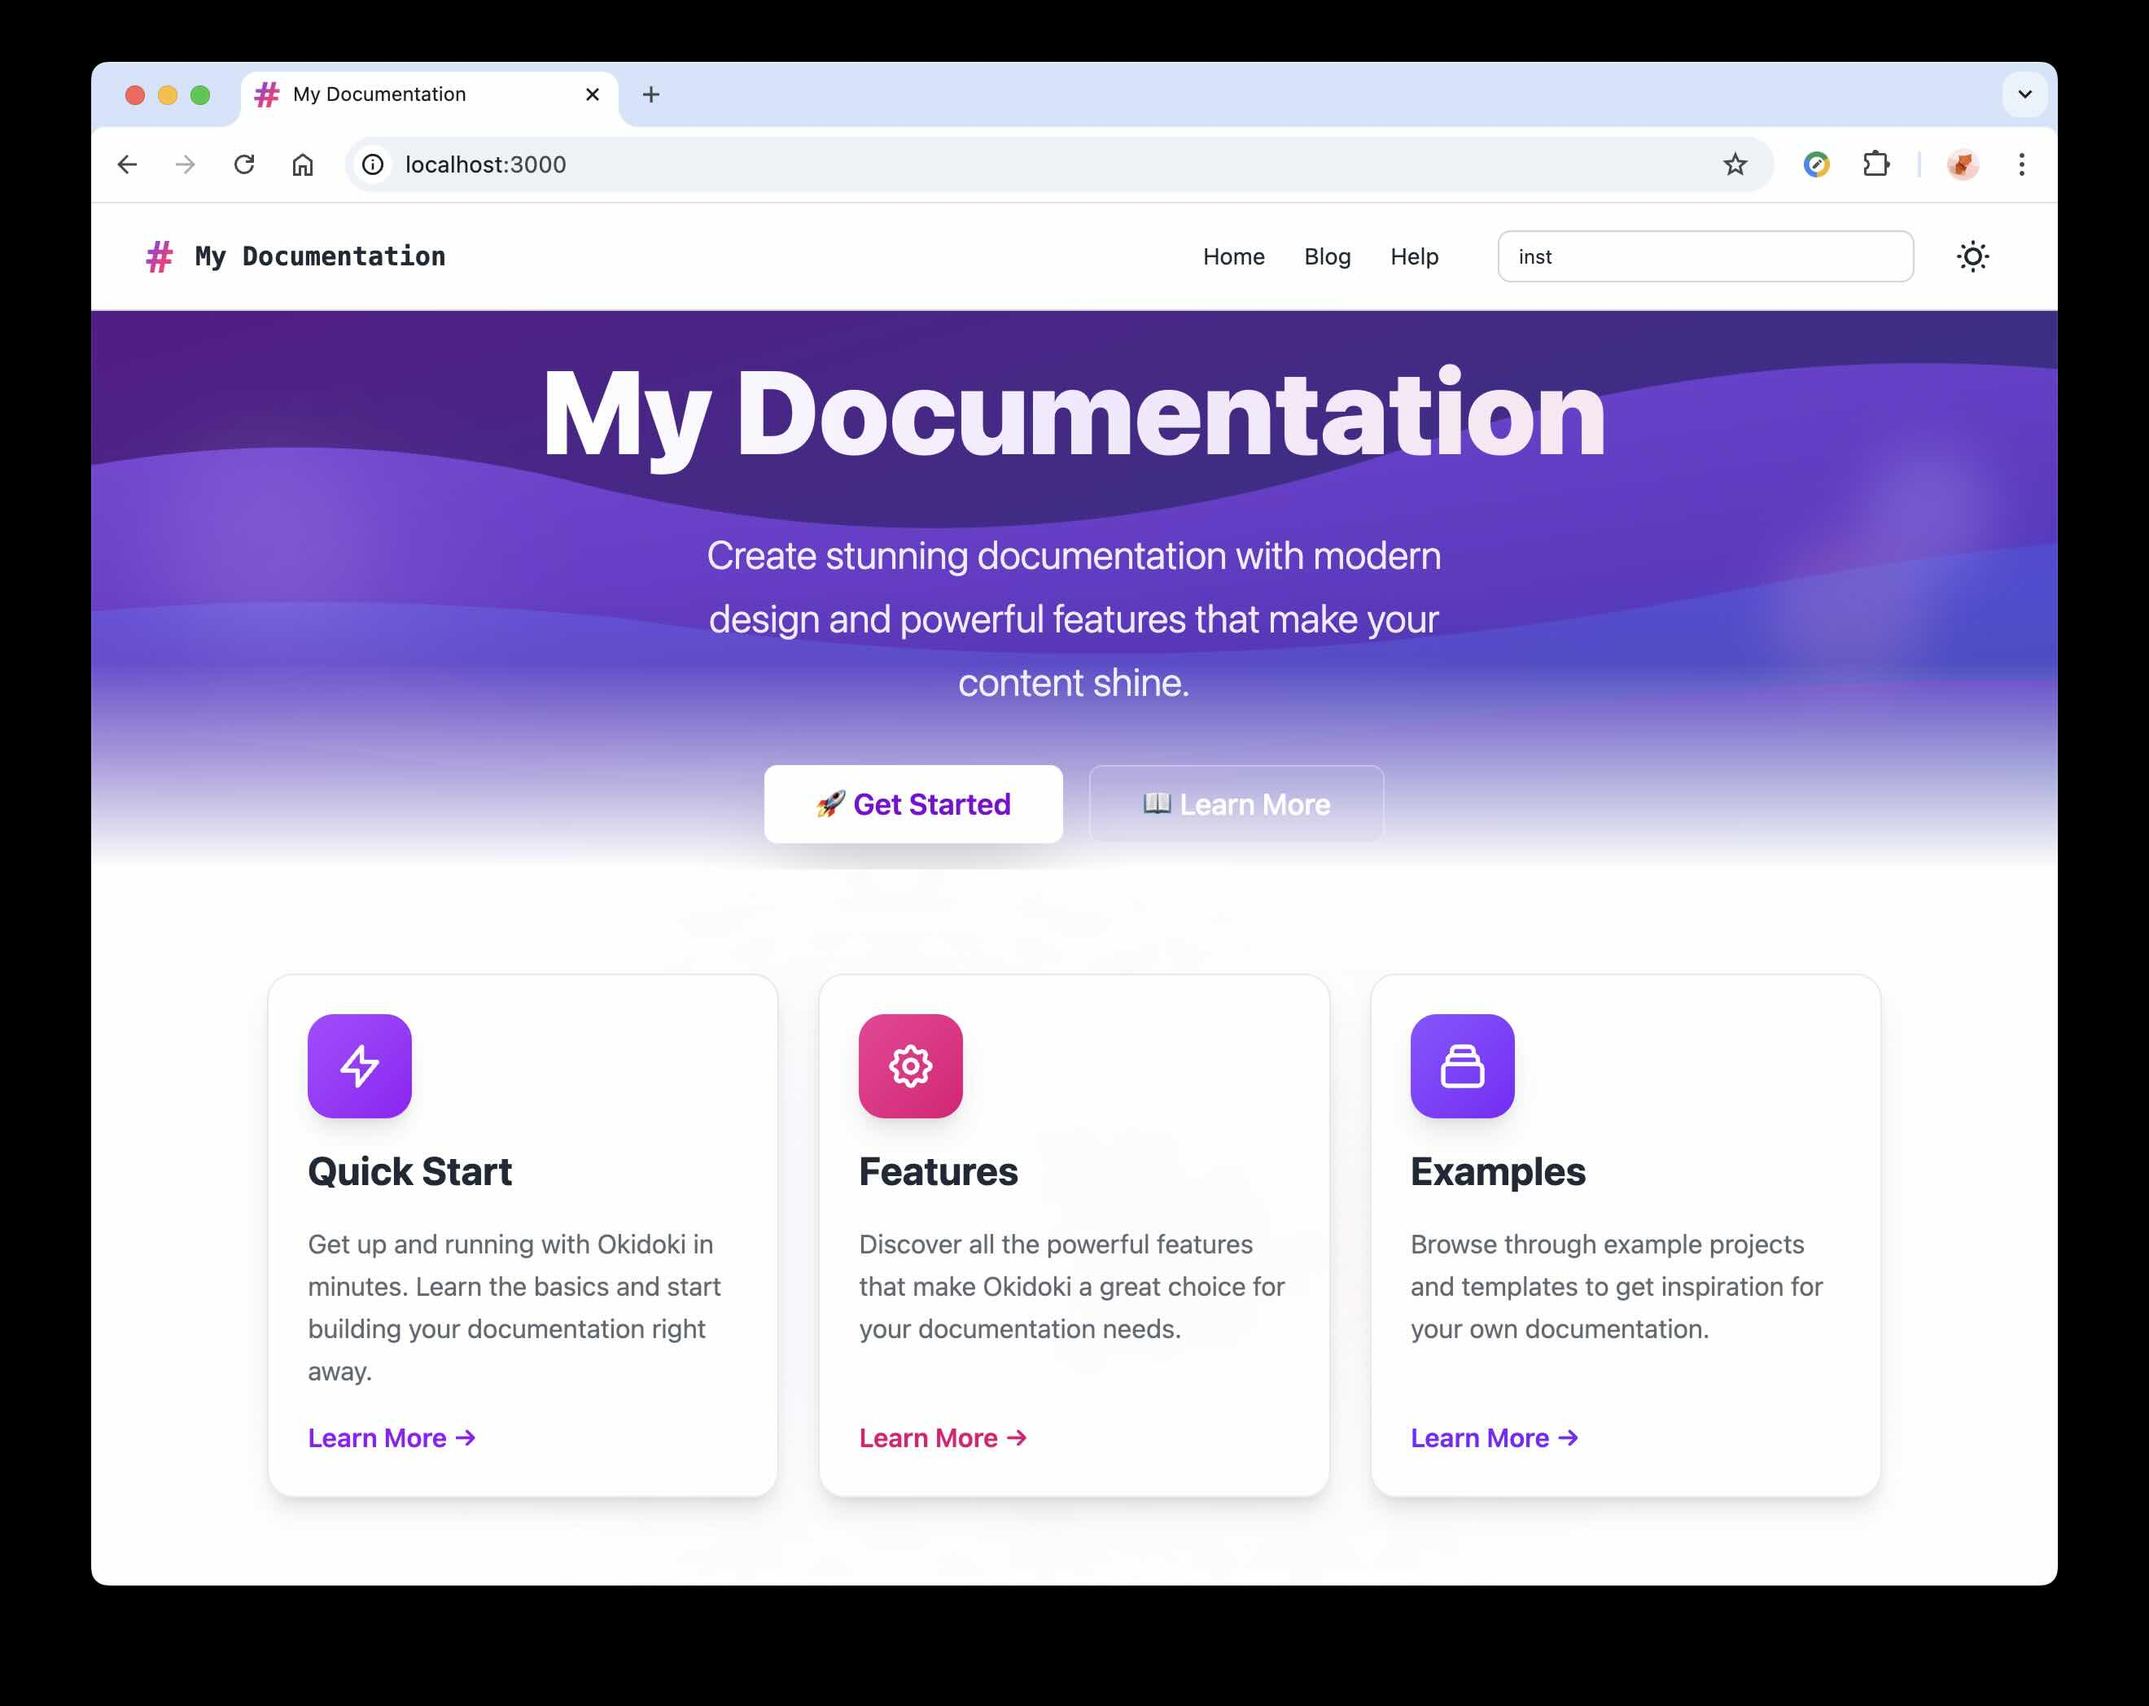
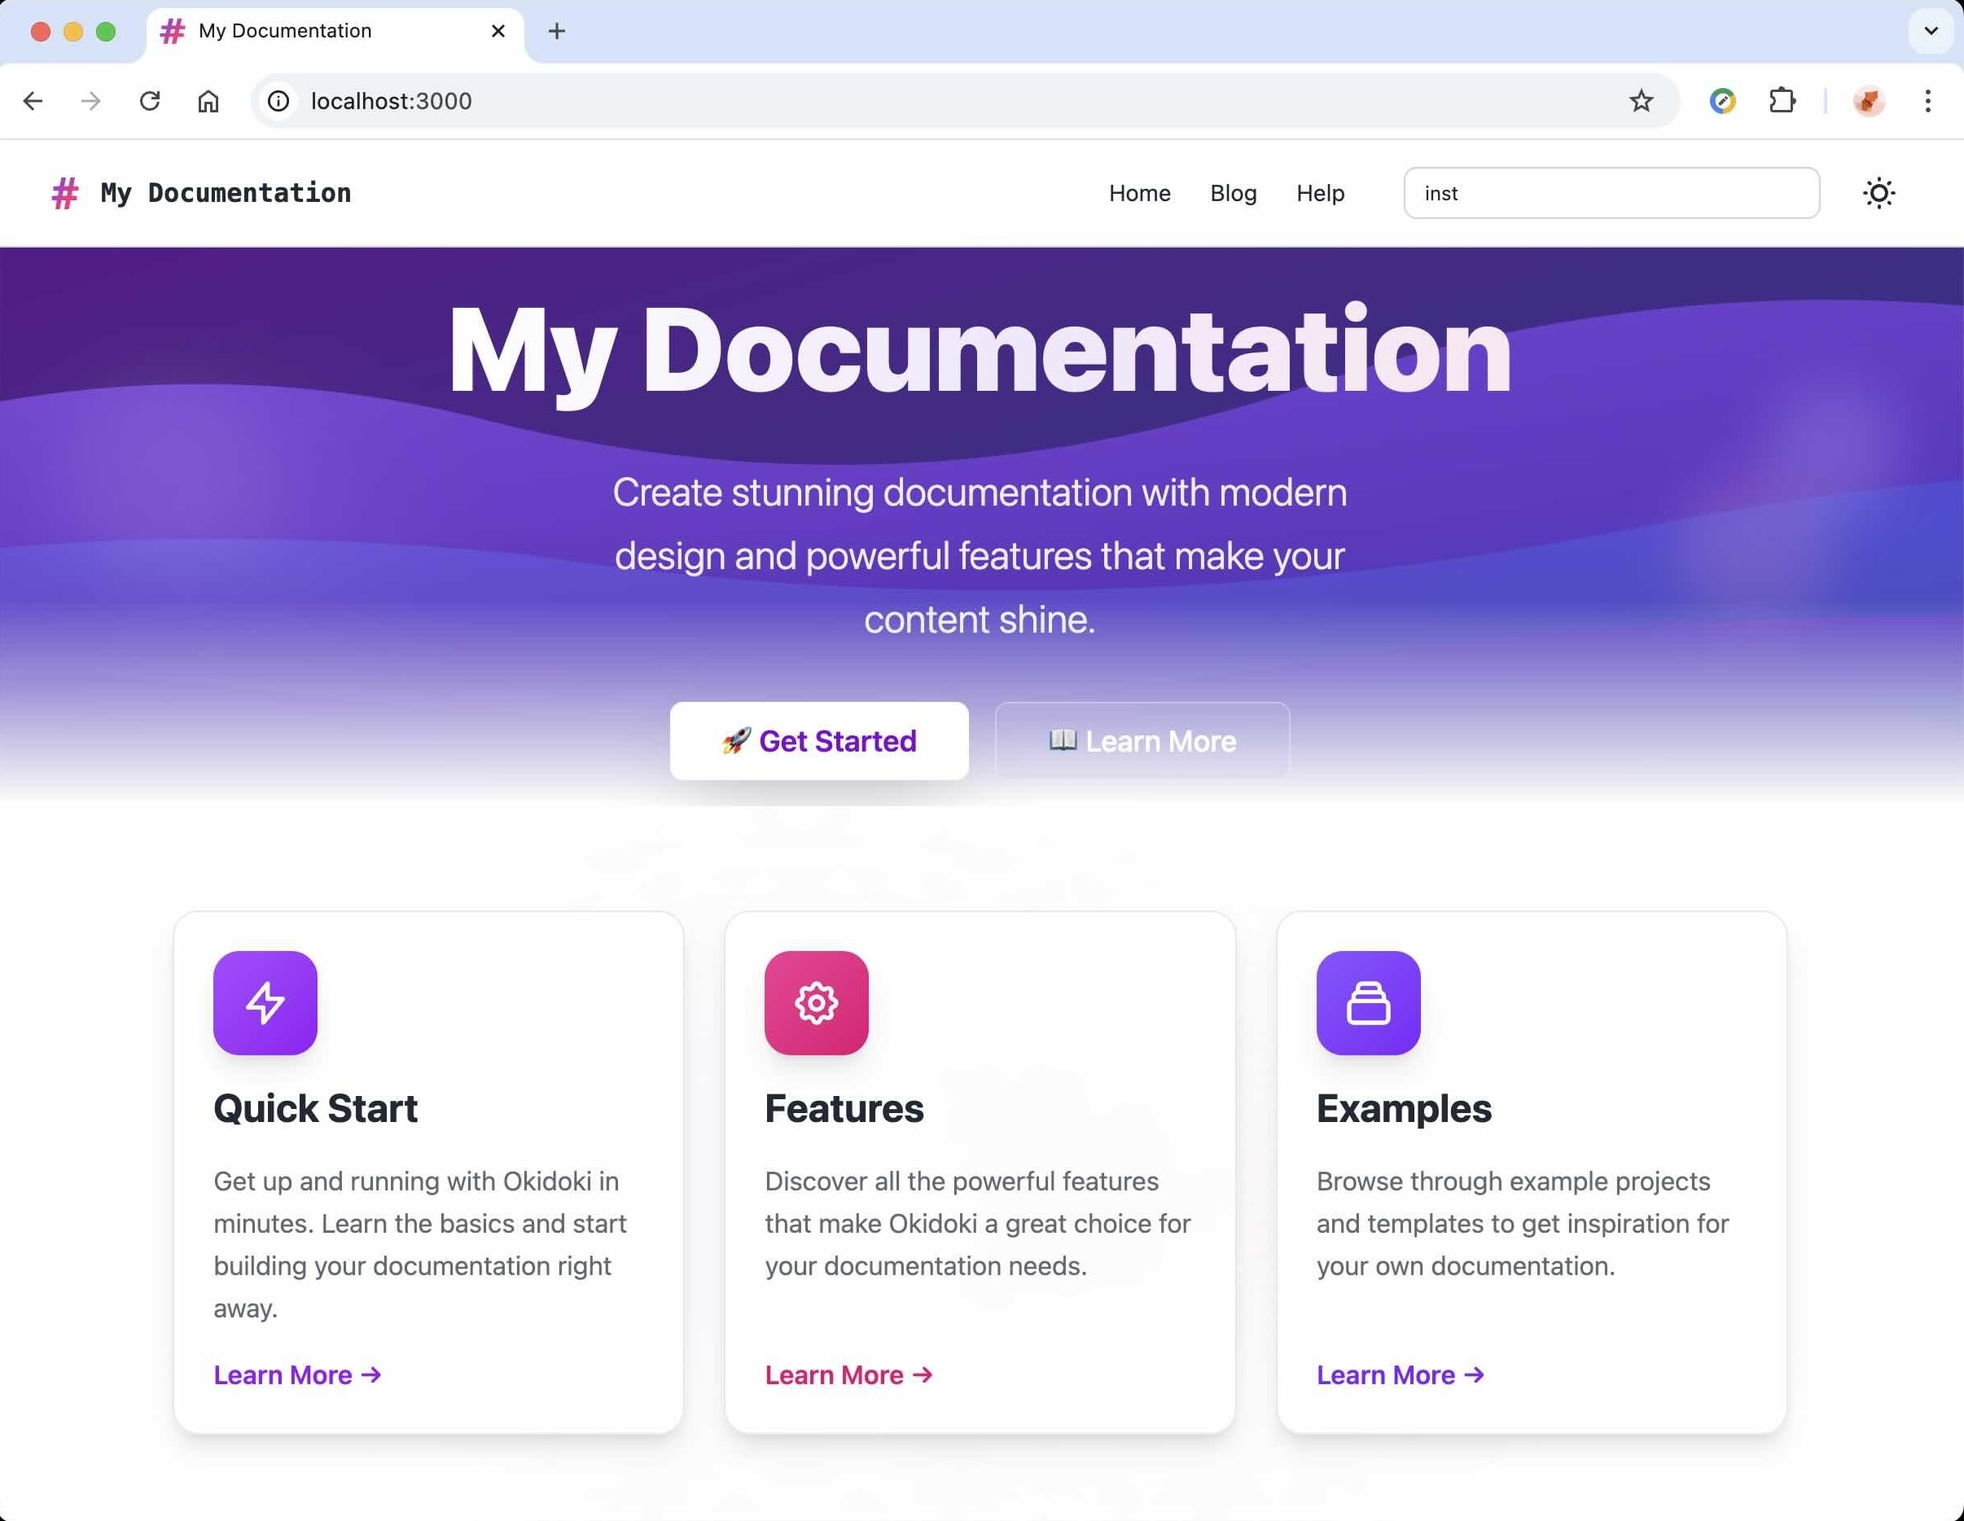
README screenshot update

diff --git a/README.md b/README.md
@@ -10,7 +10,10 @@
 
 Visit the full documentation at the [OkiDoki website](https://jbeejones.github.io/okidoki-website) or [Contribute on GitHub](https://github.com/jbeejones/okidoki)
 
-![okidoki startpage screenshot](./screenshots/okidoki-startpage.jpeg)
+<div style="border-radius: 8px; overflow: hidden; box-shadow: 0 4px 6px rgba(0, 0, 0, 0.1)">
+    <img src="./screenshots/okidoki-startpage.jpeg" alt="okidoki start page" style="border-radius: 8px; display: block; width: 100%">
+  </div>
+
 
 ![okidoki api docs screenshot](./screenshots/okidoki.png)
 
